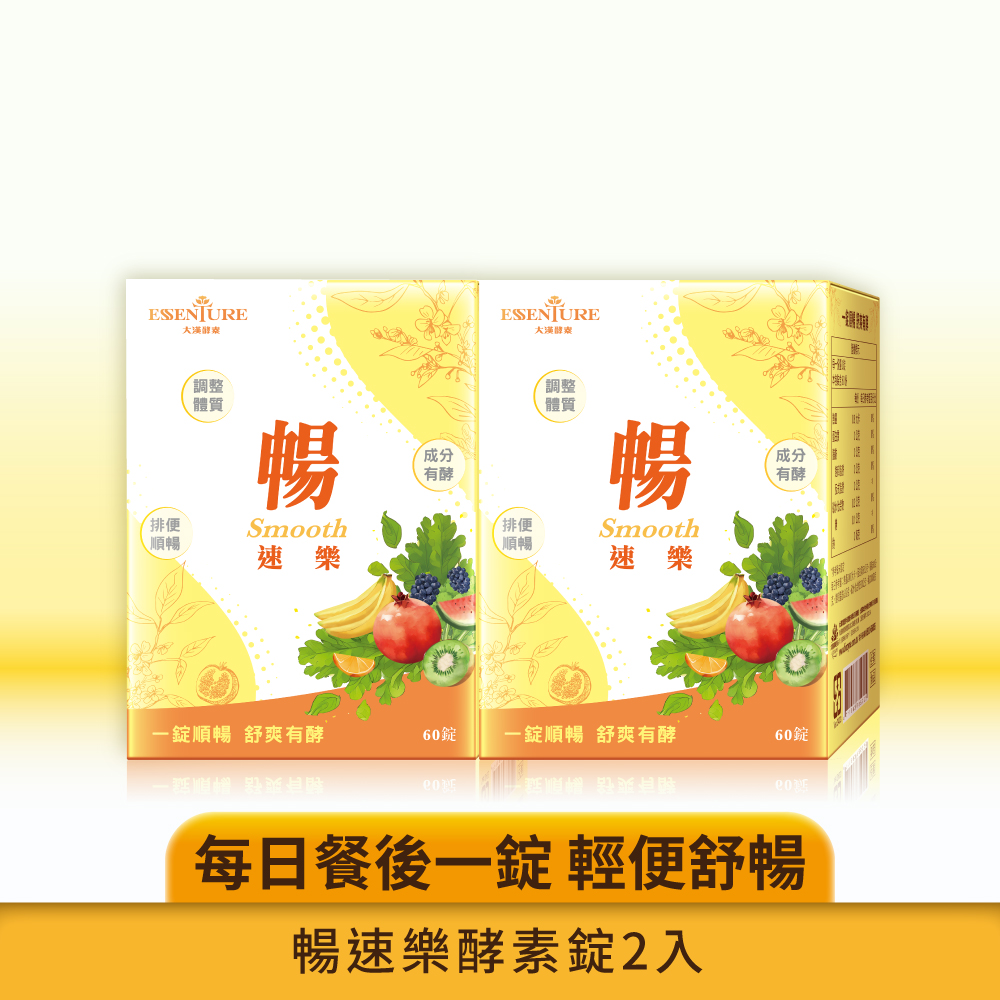
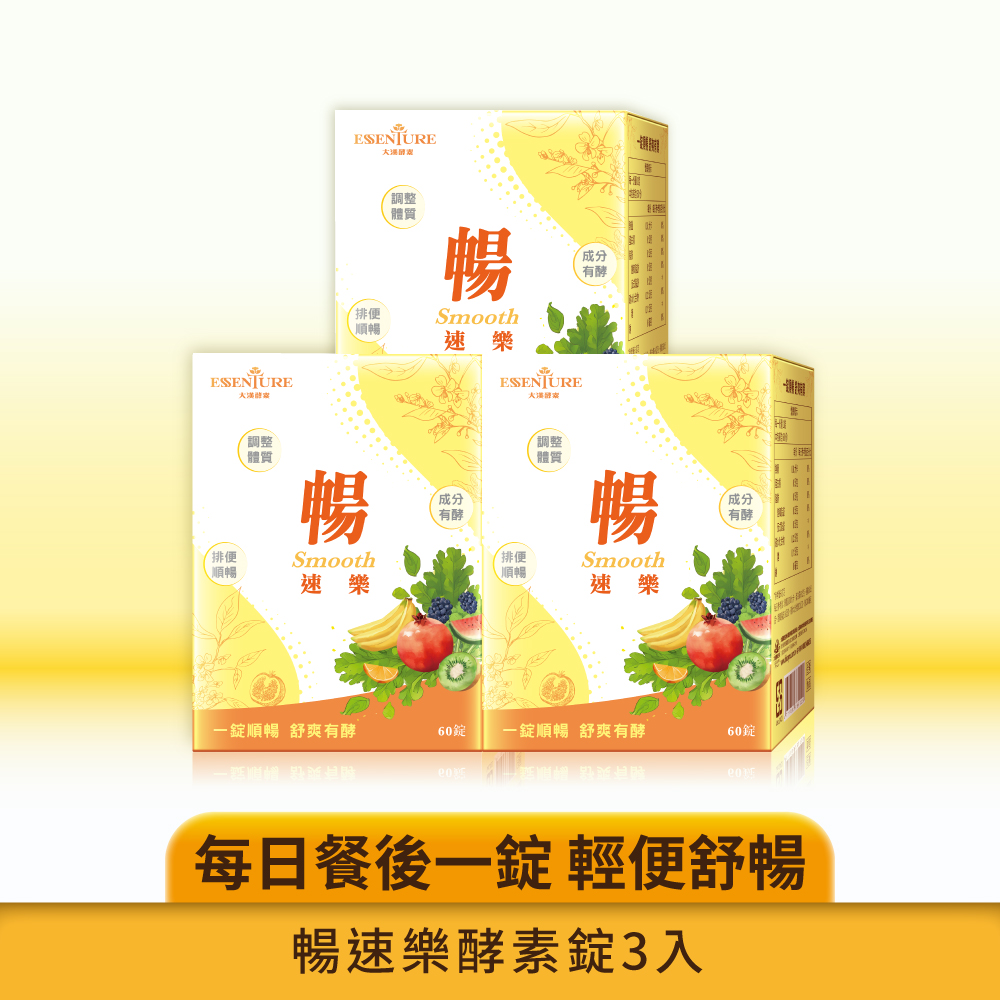
fixed($Web): 更換 圖片和連結

Changed region(s): [[0.093, 0.093, 0.899, 0.806], [0.62, 0.93, 0.651, 0.992], [0.372, 0.186, 0.434, 0.217]]

diff --git a/main.html b/main.html
@@ -600,21 +600,21 @@
                                         id: 2,
                                         name: '助大漢2入',
                                         image: './images/productzhudahan2.jpg',
-                                        link: 'https://www.momoshop.com.tw/category/DgrpCategory.jsp?d_code=1203300109&p_orderType=4&showType=chessboardType',
+                                        link: 'https://www.momoshop.com.tw/product/13837784',
                                         alt: '助大漢2入'
                                     },
                                     {
                                         id: 3,
                                         name: '助大漢3入',
                                         image: './images/productzhudahan3.jpg',
-                                        link: 'https://www.momoshop.com.tw/goods/GoodsDetail.jsp?i_code=13333169&Area=search&mdiv=403&oid=1_3&cid=index&kw=ESSENTURE+%E5%A4%A7%E6%BC%A2%E9%85%B5%E7%B4%A0',
+                                        link: 'https://www.momoshop.com.tw/product/13837780',
                                         alt: '助大漢3入'
                                     },
                                     {
                                         id: 4,
                                         name: '助大漢10入',
                                         image: './images/productzhudahan10.jpg',
-                                        link: 'https://www.momoshop.com.tw/goods/GoodsDetail.jsp?i_code=14770722&Area=search&mdiv=403&oid=1_28&cid=index&kw=ESSENTURE+%E5%A4%A7%E6%BC%A2%E9%85%B5%E7%B4%A0',
+                                        link: 'https://www.momoshop.com.tw/product/15437758?Area=search&mdiv=403&oid=1_1&cid=index&kw=15437758&ecTagNos=',
                                         alt: '助大漢10入'
                                     }
                                 ]
@@ -633,28 +633,28 @@
                                         id: 1,
                                         name: '暢速樂1入',
                                         image: './images/productchangsule1.jpg',
-                                        link: 'https://www.momoshop.com.tw/goods/GoodsDetail.jsp?i_code=13251834&Area=search&mdiv=403&oid=2_22&cid=index&kw=ESSENTURE+%E5%A4%A7%E6%BC%A2%E9%85%B5%E7%B4%A0',
+                                        link: 'https://www.momoshop.com.tw/product/13012417',
                                         alt: '暢速樂1入'
                                     },
                                     {
                                         id: 2,
-                                        name: '暢速樂2入',
+                                        name: '暢速樂3入',
                                         image: './images/productchangsule2.jpg',
-                                        link: 'https://www.momoshop.com.tw/goods/GoodsDetail.jsp?i_code=14100410&Area=search&mdiv=403&oid=1_1&cid=index&kw=ESSENTURE+%E5%A4%A7%E6%BC%A2%E9%85%B5%E7%B4%A0',
-                                        alt: '暢速樂2入'
+                                        link: 'https://www.momoshop.com.tw/product/13443782',
+                                        alt: '暢速樂3入'
                                     },
                                     {
                                         id: 3,
                                         name: '暢速樂5入',
                                         image: './images/productchangsule5.jpg',
-                                        link: 'https://www.momoshop.com.tw/goods/GoodsDetail.jsp?i_code=14227980',
+                                        link: 'https://www.momoshop.com.tw/product/14183556',
                                         alt: '暢速樂5入'
                                     },
                                     {
                                         id: 4,
                                         name: '暢速樂10入',
                                         image: './images/productchangsule10.jpg',
-                                        link: 'https://www.momoshop.com.tw/goods/GoodsDetail.jsp?i_code=14770722&Area=search&mdiv=403&oid=1_28&cid=index&kw=ESSENTURE+%E5%A4%A7%E6%BC%A2%E9%85%B5%E7%B4%A0',
+                                        link: 'https://www.momoshop.com.tw/product/15437759?Area=search&mdiv=403&oid=1_1&cid=index&kw=15437759&ecTagNos=',
                                         alt: '暢速樂10入'
                                     }
                                 ]